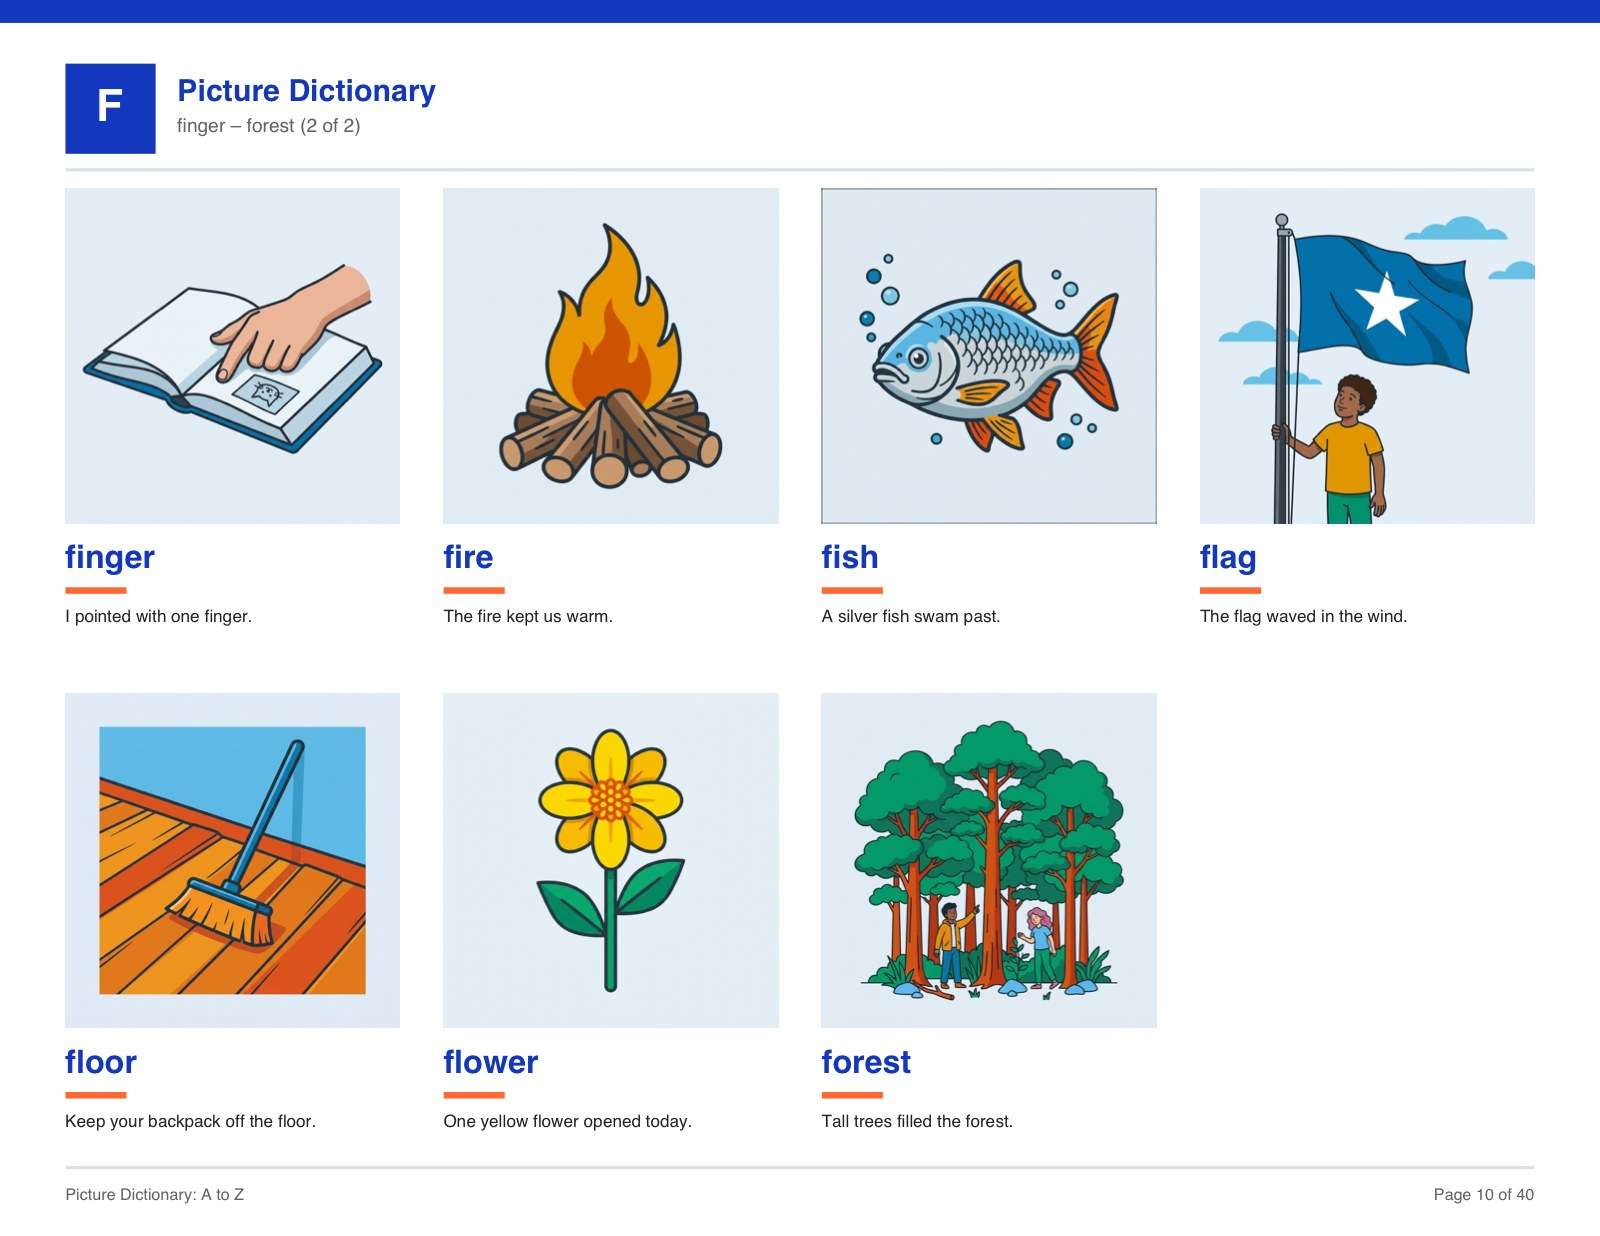
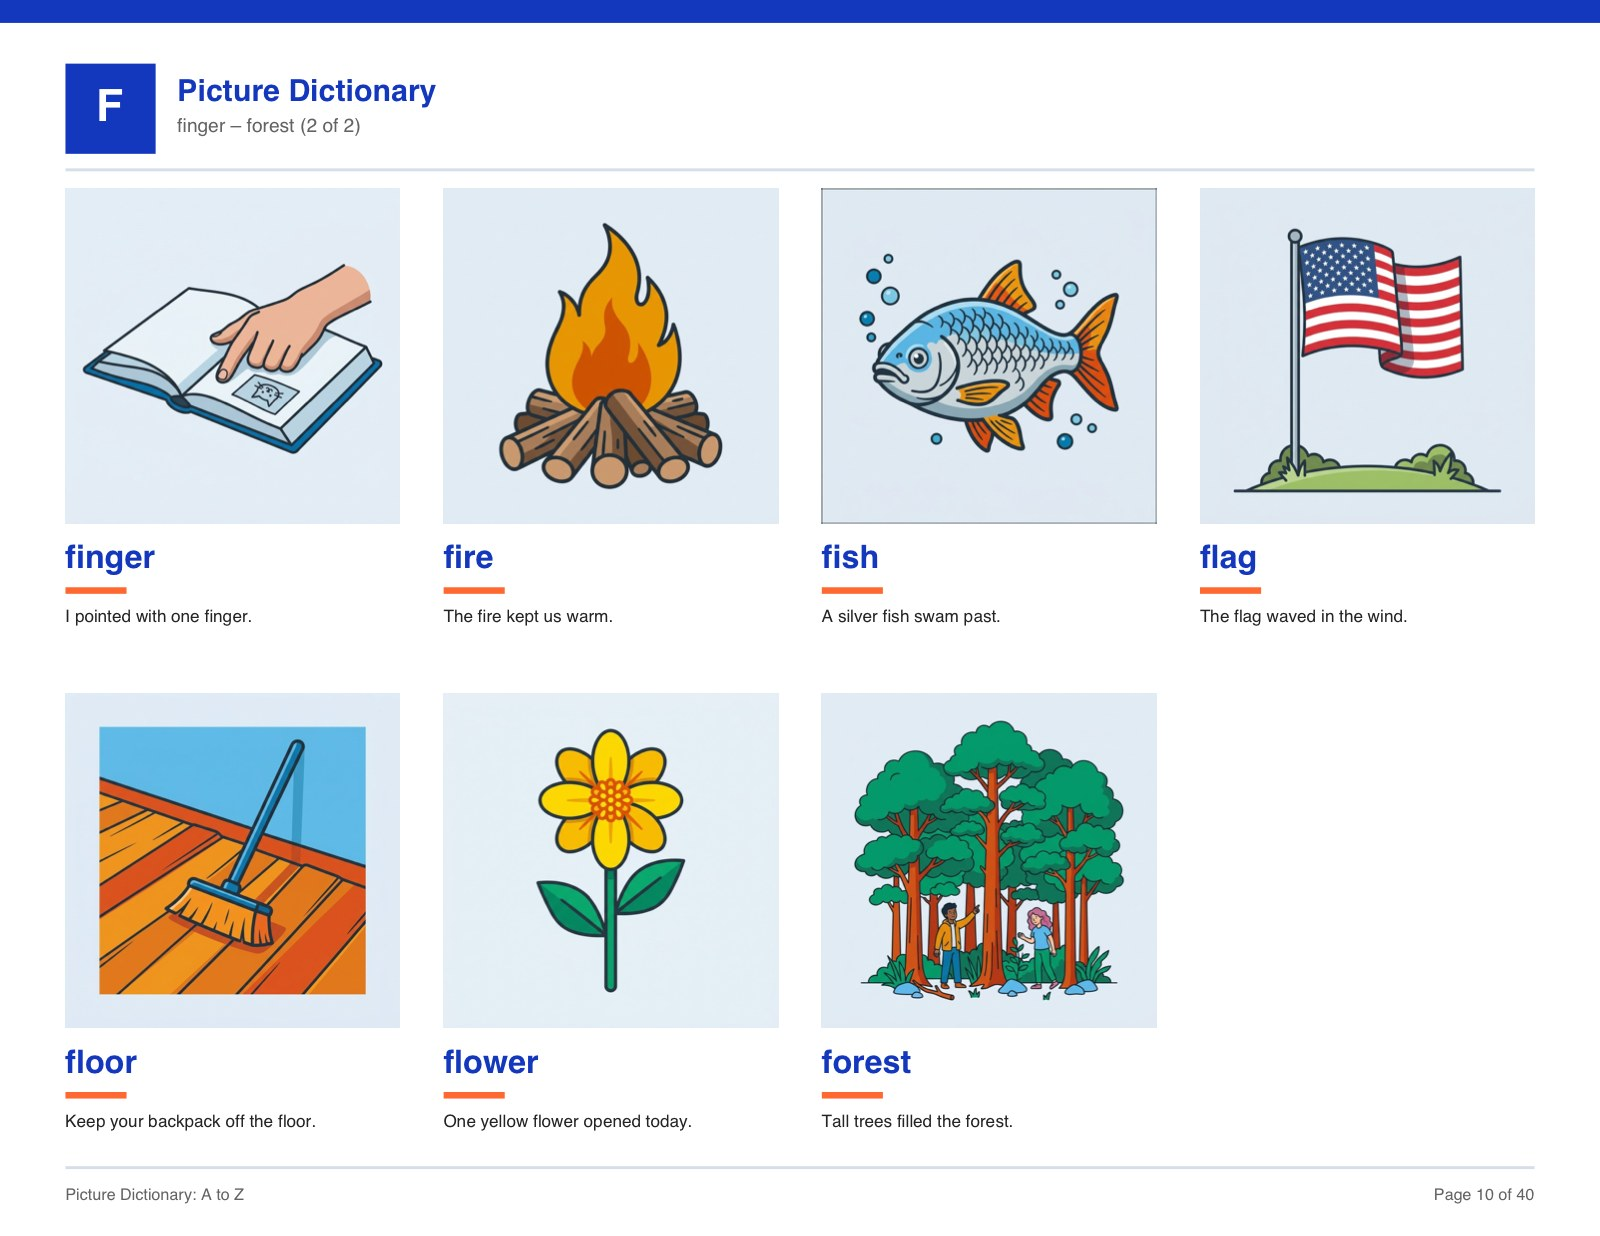
Fix 17 illustrations per Brooke's review; US flag; remove yellow

Changed region(s): [[0.75, 0.1537, 0.9688, 0.4304]]

diff --git a/prompts/scenes.py b/prompts/scenes.py
@@ -25,7 +25,8 @@ SCENES = {
     "angry": "a teenager with arms tightly crossed, eyebrows down, two small flat steam puffs at the sides of the head",
     "animal": "four friendly animals together on grass: a dog, a rabbit, a turtle and a small bird",
     "apple": "a single bright red apple with a green leaf on its stem, on a wooden desktop",
-    "arm": "a teenager sitting at a school desk with one whole arm raised straight up to answer, the raised arm the clear focus, not a flexed muscle",
+    # The raised arm sprouted from the middle of the chest. Name the shoulder joint.
+    "arm": "a teenager sitting at a school desk with one arm raised straight up to answer, the raised arm clearly joined at the shoulder with the shoulder and upper sleeve visible, the other arm resting on the desk",
     "art": "a wooden easel holding a colourful painting, with a paint palette and brushes in a jar beside it",
     "astronaut": "an astronaut in a white spacesuit with a round helmet, floating, a few flat stars and a blue planet arc behind",
     # B
@@ -39,7 +40,8 @@ SCENES = {
     "bike": "a single bicycle standing upright in side view, wheels frame and handlebars clearly shown",
     "bird": "a small blue bird perched on a thin branch",
     "birthday": "a birthday cake with lit candles, a party hat and streamers beside it",
-    "blanket": "a folded checked blanket draped over the arm of a chair",
+    # Draped over a chair, the chair took over and the blanket read as a small cloth.
+    "blanket": "a thick folded blanket resting by itself, its soft folds and stitched edge clearly visible, no furniture and no person in the picture",
     "boat": "a small wooden rowboat with oars, on calm blue water",
     "box": "a cardboard box with its four flaps open, empty",
     "breakfast": "a breakfast plate with a fried egg and toast, a glass of juice beside it",
@@ -80,7 +82,8 @@ SCENES = {
     "drum": "a single drum with two drumsticks crossed on top",
     "duck": "a duck with a yellow bill swimming on blue water",
     # E
-    "ear": "a close side view of a teenager's ear with a hearing aid behind it",
+    # The ear came back far larger than a real ear relative to the head.
+    "ear": "a side view of a teenager's head, the ear drawn at natural size in correct proportion to the head, with a hearing aid tucked behind it",
     "earth": "the planet Earth seen from space, blue oceans and green continents",
     "egg": "a single white egg standing in an egg cup",
     "elephant": "a grey elephant standing side-on with its trunk curled",
@@ -100,9 +103,10 @@ SCENES = {
     "finger": "a hand resting on an open book, one index finger pointing down at a picture on the page, the pointing finger the clear focus",
     "fire": "a campfire with orange flames over stacked logs",
     "fish": "a single silver and orange fish swimming",
-    # An unspecified flag comes back as a rainbow one, which teaches a specific
-    # symbol under a generic word. Describe an invented, meaningless design.
-    "flag": "a plain blue rectangular flag with one large white star in the middle, on a tall pole, waving in the wind",
+    # Left unspecified this came back as a rainbow flag, so it was first pinned to
+    # an invented neutral design. Brooke then asked for the US flag by name, which
+    # settles it — but the design must still be stated outright, never left open.
+    "flag": "the flag of the United States of America on a tall pole waving in the wind, thirteen red and white stripes with a blue rectangle of white stars in the upper corner",
     "floor": "a wooden floor seen at an angle with a broom resting on it",
     "flower": "a single yellow flower with a green stem and two leaves",
     "forest": "a group of tall green trees standing close together",
@@ -123,14 +127,16 @@ SCENES = {
     "grass": "a close view of a patch of green grass blades and nothing else, no people and no animals",
     "gym": "a school gymnasium with a basketball hoop and a polished wooden floor",
     # H
-    "hair": "a teenager brushing their long hair with a hairbrush",
+    # Came back with three arms: one holding hair, one brushing, one hanging spare.
+    "hair": "a teenager with long hair seen from the side, holding a hairbrush in one hand and brushing their hair, with exactly two arms and two hands in the picture",
     "halloween": "a carved orange pumpkin glowing, with a small bat above it",
     # A spread open palm facing the viewer is the ASL 5 handshape. Anchor the
     # hand to an arm and a surface so it reads as anatomy, not language.
     "hand": "a teenager's hand and forearm resting palm-up and relaxed on a table top, the open hand the clear focus",
     # "head and shoulders straight on" is the same picture as `face`. The hat
     # gives the head a top and a shape of its own.
-    "head": "a teenager wearing a woolly hat, seen in side profile so the whole shape of the head is clear",
+    # Showed the whole body, so the head was not the subject.
+    "head": "a close view of a teenager's head and neck only, in side profile wearing a woolly hat, cropped at the shoulders with no body below",
     "heart": "a simple red heart shape",
     "hide": "a teenager crouching behind a door, peeking around its edge",
     "hill": "a green rounded hill with a path winding up it",
@@ -143,9 +149,13 @@ SCENES = {
     "ice cream": "an ice cream cone with two round scoops",
     "island": "a small green island with one palm tree, surrounded by blue water",
     # J
-    "jar": "a glass jar with a lid, filled with round biscuits",
+    # jar / milk / scissors all came back giant because the style block asks the
+    # subject to fill ~70% of the frame — with a person in shot the *object*
+    # took the 70%. Dropping the person removes the conflict entirely.
+    "jar": "a single glass jar with a lid, filled with round biscuits, standing by itself with no person in the picture",
     "juice": "a tall glass of orange juice with a straw",
-    "jump": "a teenager jumping over a puddle with both feet off the ground",
+    # The old pose read as squatting, and he was above the grass, not the puddle.
+    "jump": "a teenager caught in mid-air leaping across a puddle, body leaning forward with one leg stretched out in front and the other trailing behind, clearly airborne directly above the water",
     # K
     "kick": "a teenager kicking a soccer ball, leg extended",
     "king": "a king wearing a gold crown and a red robe",
@@ -153,13 +163,15 @@ SCENES = {
     "kitchen": "a kitchen with a counter, a sink and cupboards",
     "kite": "a red diamond kite with a tail flying in the sky",
     "knee": "a teenager's bent knee with a small bandage on it",
-    "knife": "a single kitchen knife lying on a cutting board",
+    # The board dominated the square and the blade looked embedded in it.
+    "knife": "a single kitchen knife lying by itself on a plain surface, its blade and handle clearly visible, with no cutting board",
     # L
     "ladder": "a wooden ladder leaning against a wall",
     "lake": "a calm blue lake with trees along the far shore",
     "lamp": "a table lamp switched on and glowing",
     "laugh": "a teenager laughing with their head tilted back",
-    "leg": "a teenager standing seen from the waist down, wearing matching sports shorts and trainers, both legs straight and fully visible",
+    # Cropping at the waist left a headless torso.
+    "leg": "a teenager standing still and facing the viewer, shown from head to feet, wearing short sports shorts and trainers so both bare legs are uncovered and clearly visible from hip to ankle",
     "letter": "a sealed white envelope with a stamp in the corner",
     "library": "tall bookshelves full of books with a reading table in front",
     "light": "a glowing light bulb",
@@ -173,7 +185,7 @@ SCENES = {
     "math": "a chalkboard covered with plus, minus, multiply and divide symbols and simple numbers",
     "meat": "a cooked steak on a white plate",
     "medicine": "a medicine bottle with a measuring spoon beside it",
-    "milk": "a tall glass of white milk",
+    "milk": "a single tall glass of white milk standing by itself, no person in the picture",
     "money": "a small stack of bills with a few coins beside it",
     "monkey": "a brown monkey hanging from a branch by one arm",
     "monster": "a friendly purple cartoon monster with big round eyes, smiling",
@@ -205,7 +217,8 @@ SCENES = {
     "office": "an office with a desk, a chair and a computer",
     "orange": "a single orange fruit with one green leaf on top",
     "oven": "an oven with its door closed and the inside light glowing",
-    "outside": "a teenager stepping out through a door into sunshine and grass",
+    # The doorway slab dominated and the stride read as off balance.
+    "outside": "a teenager standing on green grass in bright sunshine with a house and its open front door behind them, arms relaxed, clearly out of doors",
     # P
     "paint": "a paintbrush resting across an open tin of blue paint",
     "pants": "a pair of blue jeans, neatly folded",
@@ -234,7 +247,8 @@ SCENES = {
     "read": "a teenager sitting and reading an open book",
     "rice": "a white bowl filled with cooked white rice",
     "ride": "a teenager riding a bicycle along a path",
-    "ring": "a gold ring with a small blue stone",
+    # The hand was malformed — wrong digit count and the ring finger cut off at the band.
+    "ring": "a single gold ring with a small blue stone, standing upright by itself, with no hand and no person in the picture",
     "river": "a blue river winding between green banks",
     "road": "a grey road with a dashed centre line stretching to the horizon",
     "robot": "a friendly silver robot standing upright with round eyes",
@@ -250,7 +264,7 @@ SCENES = {
     "scared": "a teenager shrinking backwards with shoulders hunched and both hands clasped tightly together at their chest, eyes wide and eyebrows raised in fright",
     "school": "a school building with a flag and steps up to the door",
     "science": "a science beaker of coloured liquid beside a microscope",
-    "scissors": "a pair of open scissors",
+    "scissors": "a single pair of open scissors lying by itself, no person in the picture",
     "shirt": "a single striped shirt on a hanger",
     "shoe": "a single sneaker, side view",
     "shop": "a small shop front with a striped awning and a window display",
@@ -268,7 +282,8 @@ SCENES = {
     "soap": "a bar of soap with bubbles around it",
     "soccer": "a black and white soccer ball resting on grass",
     "spider": "a spider sitting on its web",
-    "sport": "a soccer ball, a basketball and a baseball grouped together",
+    # All three came back nearly the same size, so the scale taught the wrong thing.
+    "sport": "a soccer ball, a basketball and a baseball resting side by side on the ground at their true relative sizes: the basketball clearly the biggest, the soccer ball a little smaller, and the baseball much smaller than both",
     "stairs": "a flight of stairs going upward",
     "stand": "a teenager standing upright with arms relaxed at their sides",
     "star": "a single bright yellow five-pointed star",
@@ -281,7 +296,8 @@ SCENES = {
     "swing": "a playground swing with a child swinging on it",
     # T
     "table": "a wooden table with four legs",
-    "tail": "a dog seen from behind with its tail raised",
+    # A rear view of a dog's backside is not a readable picture of a tail.
+    "tail": "a dog standing in side view with its long tail raised and curling upward, the tail the clear focus of the picture",
     "teacher": "a teacher standing beside a whiteboard, facing the class",
     # Would otherwise be the same crop as `mouth`. The action distinguishes it.
     "teeth": "a teenager brushing their front teeth with a toothbrush, mouth open so the white teeth are the clear focus",
@@ -291,7 +307,7 @@ SCENES = {
     "time": "a close view of a wristwatch worn on a wrist, its round dial carrying the numerals 1 to 12 and the hands pointing to three o'clock, and no other writing anywhere",
     "tired": "a teenager yawning with drooping eyes, resting their head on one hand",
     "tissue": "a tissue box with one tissue pulled up out of it",
-    "tongue": "a face with the tongue sticking out slightly",
+    "tongue": "a close view of a teenager's face straight on, mouth open and tongue stuck well out, the tongue the clear focus",
     "touch": "a hand reaching out with one fingertip touching a surface",
     "town": "a small town with a few buildings, a road and trees",
     "train": "a train on tracks, side view",

diff --git a/gen_prompts.py b/gen_prompts.py
@@ -40,7 +40,12 @@ NEG_COMMON = (
     "background. No chibi or big-head proportions. No sign language or "
     "fingerspelling handshapes. No deformed hands or extra fingers. No "
     "exaggerated shocked or goofy expressions. No clip-art borders. Do not "
-    "place the subject on a wooden board or tray unless described. Never draw "
+    "place the subject on a wooden board or tray unless described. Every person "
+    "has exactly two arms, two hands and two legs, each joined to the body at "
+    "the right place — no extra, missing or floating limbs. Draw every object at "
+    "its true real-world size next to any person shown: a jar, a glass or a pair "
+    "of scissors is small enough to hold in one hand, never as large as a "
+    "person's body. Never draw "
     "colour swatches, colour chips, palette strips or style-guide samples — the "
     "palette above describes how to colour the picture, it is not part of the "
     "picture. Never add a caption, title or label bar above or below the art."

diff --git a/Revised List.md b/Revised List.md
@@ -96,7 +96,7 @@
 
 ### **Letter Y**
 
-### **Yard, yawn, yellow, young.**
+### **Yard, yawn, young.**
 
 ### **Letter Z**
 
